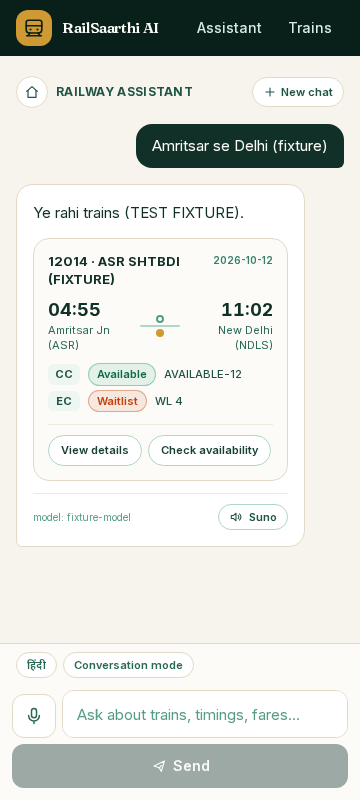
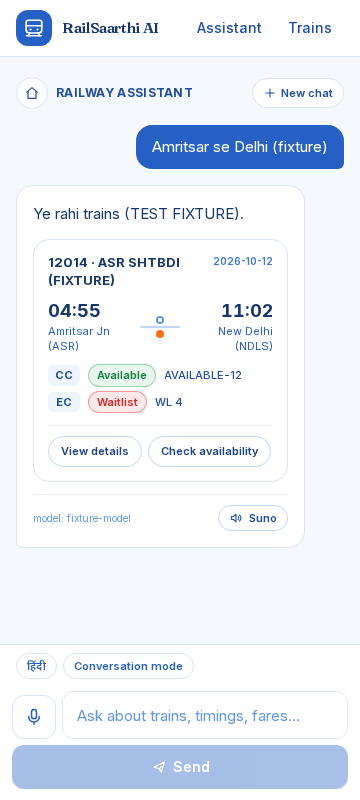
Light railway theme: blue + orange identity, no dark backgrounds
Per owner direction: no green/black/navy backgrounds, light & friendly,
must read as a railway AI assistant app.

- tokens: railway blue ramp (links/primary buttons/text), cool paper whites,
  railway orange accent (CTA/highlights); semantic green/amber/red for status
- light header (white, blue brand chip), light hero gradient (blue tint) with
  serif headline + orange italic, orange 'Start Chatting', blue route line +
  orange train, white feature cards with blue icon chips
- chat: bright blue user bubbles + blue send; everything else stays light
- fix react-hooks lint (matchMedia init via lazy useState)
- gates: tsc/lint PASS, vitest 192/192, build OK, Playwright 46/46 on a clean
  credential-cleared server (leftover dev server had polluted one run).
  no push/deploy

diff --git a/src/app/page.tsx b/src/app/page.tsx
@@ -46,10 +46,10 @@ function RouteGraphic() {
       <circle cx="308" cy="40" r="4" fill="var(--color-saffron-500)" stroke="none" />
       <g transform="translate(146 8)">
         <rect x="0" y="0" width="28" height="14" rx="4" fill="var(--color-saffron-500)" stroke="none" />
-        <rect x="4" y="3" width="6" height="5" rx="1" fill="var(--color-navy-950)" stroke="none" />
-        <rect x="13" y="3" width="6" height="5" rx="1" fill="var(--color-navy-950)" stroke="none" />
-        <circle cx="7" cy="14" r="2.2" fill="var(--color-cream-50)" stroke="none" />
-        <circle cx="21" cy="14" r="2.2" fill="var(--color-cream-50)" stroke="none" />
+        <rect x="4" y="3" width="6" height="5" rx="1" fill="#ffffff" stroke="none" />
+        <rect x="13" y="3" width="6" height="5" rx="1" fill="#ffffff" stroke="none" />
+        <circle cx="7" cy="14" r="2.2" fill="var(--color-navy-600)" stroke="none" />
+        <circle cx="21" cy="14" r="2.2" fill="var(--color-navy-600)" stroke="none" />
       </g>
     </svg>
   );
@@ -59,31 +59,31 @@ export default function HomePage() {
   return (
     <div>
       {/* Hero */}
-      <section className="relative overflow-hidden bg-navy-950 px-4 pt-12 pb-12 text-center sm:pt-16 sm:pb-14">
+      <section className="relative overflow-hidden bg-gradient-to-b from-navy-100 via-cream-100 to-cream-100 px-4 pt-12 pb-12 text-center sm:pt-16 sm:pb-14">
         <div
           aria-hidden
-          className="pointer-events-none absolute inset-0 bg-[radial-gradient(52rem_24rem_at_50%_-6rem,rgb(207_154_51/0.16),transparent_70%)]"
+          className="pointer-events-none absolute inset-0 bg-[radial-gradient(52rem_24rem_at_50%_-6rem,rgb(38_96_196/0.14),transparent_70%)]"
         />
         <div
           aria-hidden
-          className="pointer-events-none absolute inset-x-0 bottom-0 h-px bg-gradient-to-r from-transparent via-saffron-500/50 to-transparent"
+          className="pointer-events-none absolute inset-x-0 bottom-0 h-px bg-gradient-to-r from-transparent via-navy-300/70 to-transparent"
         />
         <div className="relative mx-auto max-w-2xl">
-          <p className="mx-auto inline-flex items-center gap-2 rounded-full border border-saffron-500/30 bg-navy-900/80 px-3.5 py-1 text-[11px] font-semibold tracking-wide text-saffron-400">
-            <BrandMark className="h-3.5 w-3.5" />
+          <p className="mx-auto inline-flex items-center gap-2 rounded-full border border-navy-200 bg-white px-3.5 py-1 text-[11px] font-semibold tracking-wide text-navy-700 shadow-sm">
+            <BrandMark className="h-3.5 w-3.5 text-saffron-500" />
             Indian Railways · AI assistant
           </p>
-          <h1 className="font-display mt-5 text-[40px] leading-[1.08] font-semibold tracking-tight text-cream-50 sm:text-6xl">
-            Your Journey, <span className="text-saffron-400 italic">Simplified.</span>
+          <h1 className="font-display mt-5 text-[40px] leading-[1.08] font-semibold tracking-tight text-navy-900 sm:text-6xl">
+            Your Journey, <span className="text-saffron-500 italic">Simplified.</span>
           </h1>
-          <p className="mx-auto mt-4 max-w-md text-[15px] leading-relaxed text-navy-200 sm:text-base">
+          <p className="mx-auto mt-4 max-w-md text-[15px] leading-relaxed text-navy-600 sm:text-base">
             Ask anything about Indian Railways in Hindi, Hinglish or English —
             trains, timings, fares, seat availability, routes and PNR status.
           </p>
           <Link
             href="/chat"
             data-testid="start-chatting"
-            className="surface-shadow mt-8 inline-flex min-h-12 items-center justify-center rounded-full bg-saffron-500 px-9 text-[15px] font-bold text-navy-950 transition hover:bg-saffron-400"
+            className="surface-shadow mt-8 inline-flex min-h-12 items-center justify-center rounded-full bg-saffron-500 px-9 text-[15px] font-bold text-white transition hover:bg-saffron-600"
           >
             Start Chatting
           </Link>
@@ -102,7 +102,7 @@ export default function HomePage() {
               key={f.title}
               className="surface-shadow rounded-2xl border border-cream-300 bg-white p-3.5 transition hover:-translate-y-0.5 sm:p-4"
             >
-              <span className="flex h-9 w-9 items-center justify-center rounded-xl border border-saffron-500/25 bg-saffron-500/10 text-saffron-600">
+              <span className="flex h-9 w-9 items-center justify-center rounded-xl border border-navy-200 bg-navy-50 text-navy-600">
                 <f.icon className="h-4.5 w-4.5" />
               </span>
               <p className="mt-2.5 text-[13px] font-bold text-navy-900">{f.title}</p>
@@ -118,7 +118,7 @@ export default function HomePage() {
         <ol className="relative mt-6 grid gap-3 sm:grid-cols-3">
           <span
             aria-hidden
-            className="absolute top-4 right-[16%] left-[16%] hidden h-px bg-gradient-to-r from-saffron-500/0 via-saffron-500/40 to-saffron-500/0 sm:block"
+            className="absolute top-4 right-[16%] left-[16%] hidden h-px bg-gradient-to-r from-navy-200/0 via-navy-300 to-navy-200/0 sm:block"
           />
           {[
             { t: "Ask a question", d: "Apni bhasha mein likhein ya bolein — koi form nahi." },
@@ -126,7 +126,7 @@ export default function HomePage() {
             { t: "Explore the results", d: "Cards me timings, fare, availability — source ke saath." },
           ].map((st, i) => (
             <li key={st.t} className="relative rounded-2xl border border-cream-300 bg-cream-50 p-4">
-              <span className="font-display flex h-8 w-8 items-center justify-center rounded-full border border-saffron-500/40 bg-white text-sm font-semibold text-saffron-600">
+              <span className="font-display flex h-8 w-8 items-center justify-center rounded-full border border-navy-200 bg-white text-sm font-semibold text-navy-700 shadow-sm">
                 {i + 1}
               </span>
               <p className="mt-2.5 text-[13px] font-bold text-navy-900">{st.t}</p>

diff --git a/src/app/layout.tsx b/src/app/layout.tsx
@@ -37,7 +37,7 @@ export const metadata: Metadata = {
 export const viewport: Viewport = {
   width: "device-width",
   initialScale: 1,
-  themeColor: "#081f1a",
+  themeColor: "#f5f8fc",
   // Mobile keyboards resize the visual viewport so the composer stays
   // reachable instead of being covered (keyboard-aware behaviour).
   interactiveWidget: "resizes-content",
@@ -58,11 +58,11 @@ export default function RootLayout({
         <Providers>
           <a
             href="#main"
-            className="sr-only focus:not-sr-only focus:absolute focus:z-50 focus:bg-navy-900 focus:px-4 focus:py-2 focus:text-cream-50"
+            className="sr-only focus:not-sr-only focus:absolute focus:z-50 focus:bg-navy-600 focus:px-4 focus:py-2 focus:text-white"
           >
             Skip to content
           </a>
-          <header className="sticky top-0 z-40 bg-navy-950">
+          <header className="sticky top-0 z-40 border-b border-cream-300 bg-white/90 backdrop-blur">
             <div className="mx-auto flex h-14 max-w-5xl items-center justify-between gap-2 px-4">
               <Link
                 href="/"
@@ -71,15 +71,15 @@ export default function RootLayout({
               >
                 <span
                   aria-hidden
-                  className="flex h-9 w-9 shrink-0 items-center justify-center rounded-xl bg-saffron-500 text-navy-950"
+                  className="flex h-9 w-9 shrink-0 items-center justify-center rounded-xl bg-navy-600 text-white"
                 >
                   <BrandMark className="h-5.5 w-5.5" />
                 </span>
                 <span className="min-w-0 leading-tight">
-                  <span className="font-display block truncate text-[15px] font-semibold tracking-tight text-cream-50">
+                  <span className="font-display block truncate text-[15px] font-semibold tracking-tight text-navy-900">
                     RailSaarthi AI
                   </span>
-                  <span className="hidden truncate text-[10px] font-medium text-navy-300 min-[400px]:block">
+                  <span className="hidden truncate text-[10px] font-medium text-navy-500 min-[400px]:block">
                     रेलसारथी · your AI railway assistant
                   </span>
                 </span>
@@ -89,7 +89,7 @@ export default function RootLayout({
                   <Link
                     key={item.href}
                     href={item.href}
-                    className={`rounded-full px-3 py-2 font-medium text-navy-100 transition hover:bg-navy-800 hover:text-cream-50 ${
+                    className={`rounded-full px-3 py-2 font-medium text-navy-700 transition hover:bg-navy-50 hover:text-navy-900 ${
                       item.mobile ? "" : "hidden sm:block"
                     }`}
                   >

diff --git a/src/app/globals.css b/src/app/globals.css
@@ -5,35 +5,35 @@
  * Tailwind v4 @theme generates utilities (bg-navy-900, text-cream-100, …).
  */
 @theme {
-  /* Deep heritage pine (old Indian Railways livery) — brand + primary actions */
-  --color-navy-50: #eef6f2;
-  --color-navy-100: #d7ebe2;
-  --color-navy-200: #b0d6c6;
-  --color-navy-300: #83bca6;
-  --color-navy-400: #559d84;
-  --color-navy-500: #35816a;
-  --color-navy-600: #276856;
-  --color-navy-700: #1f5346;
-  --color-navy-800: #174036;
-  --color-navy-900: #103028;
-  --color-navy-950: #081f1a;
+  /* Railway blue — brand, links, primary actions (light-first theme) */
+  --color-navy-50: #eef4fd;
+  --color-navy-100: #dde9fb;
+  --color-navy-200: #c0d6f7;
+  --color-navy-300: #93baf0;
+  --color-navy-400: #5f97e6;
+  --color-navy-500: #3a78da;
+  --color-navy-600: #2660c4;
+  --color-navy-700: #1e4da3;
+  --color-navy-800: #1b4187;
+  --color-navy-900: #17366d;
+  --color-navy-950: #122a54;
 
-  /* Warm ivory surfaces */
-  --color-cream-50: #fcfbf8;
-  --color-cream-100: #f7f4ed;
-  --color-cream-200: #efe9dc;
-  --color-cream-300: #e3dac6;
-  --color-cream-400: #d0c2a4;
+  /* Cool paper surfaces */
+  --color-cream-50: #ffffff;
+  --color-cream-100: #f5f8fc;
+  --color-cream-200: #e9f0f8;
+  --color-cream-300: #d9e5f1;
+  --color-cream-400: #bfd3e6;
 
-  /* Brushed gold — the single restrained accent */
-  --color-saffron-400: #dcaf4f;
-  --color-saffron-500: #cf9a33;
-  --color-saffron-600: #b07f22;
+  /* Railway orange — the single warm accent (CTAs, highlights) */
+  --color-saffron-400: #fb923c;
+  --color-saffron-500: #f97316;
+  --color-saffron-600: #ea580c;
 
   /* Semantic status colours (always paired with text labels) */
-  --color-signal-500: #149a63;
-  --color-signal-700: #0e6b45;
-  --color-alert-500: #c2410c;
+  --color-signal-500: #16a34a;
+  --color-signal-700: #15803d;
+  --color-alert-500: #dc2626;
 
   --font-sans:
     var(--font-inter), var(--font-devanagari), ui-sans-serif, system-ui,
@@ -65,8 +65,8 @@ body {
 }
 
 ::selection {
-  background: var(--color-navy-900);
-  color: var(--color-cream-50);
+  background: var(--color-navy-600);
+  color: #ffffff;
 }
 
 /* Accessibility: honour reduced-motion preferences (Prompt 8 §7). */

diff --git a/src/components/ChatClient.tsx b/src/components/ChatClient.tsx
@@ -129,10 +129,11 @@ export function ChatClient({ initialMessage }: { initialMessage?: string }) {
   const [confirmReset, setConfirmReset] = useState(false);
   const confirmTimerRef = useRef<ReturnType<typeof setTimeout> | null>(null);
   // Narrow Android screens get a shorter placeholder so it never wraps.
-  const [narrow, setNarrow] = useState(false);
+  const [narrow, setNarrow] = useState(
+    () => typeof window !== "undefined" && window.matchMedia("(max-width: 400px)").matches,
+  );
   useEffect(() => {
     const mq = window.matchMedia("(max-width: 400px)");
-    setNarrow(mq.matches);
     const onChange = (e: MediaQueryListEvent) => setNarrow(e.matches);
     mq.addEventListener("change", onChange);
     return () => mq.removeEventListener("change", onChange);
@@ -491,7 +492,7 @@ export function ChatClient({ initialMessage }: { initialMessage?: string }) {
                 {m.role === "user" ? (
                   <div
                     data-testid="chat-message-user"
-                    className="ml-auto w-fit rounded-2xl rounded-br-md bg-navy-900 px-4 py-2.5 text-[15px] leading-relaxed text-cream-50"
+                    className="ml-auto w-fit rounded-2xl rounded-br-md bg-navy-600 px-4 py-2.5 text-[15px] leading-relaxed text-white"
                   >
                     {m.text}
                   </div>
@@ -687,7 +688,7 @@ export function ChatClient({ initialMessage }: { initialMessage?: string }) {
               type="submit"
               disabled={busy || !input.trim()}
               aria-busy={busy}
-              className="flex h-11 w-full shrink-0 items-center justify-center gap-1.5 rounded-xl bg-navy-900 px-4 text-sm font-semibold text-cream-50 transition hover:bg-navy-800 disabled:opacity-40 sm:w-auto"
+              className="flex h-11 w-full shrink-0 items-center justify-center gap-1.5 rounded-xl bg-navy-600 px-4 text-sm font-semibold text-white transition hover:bg-navy-700 disabled:opacity-40 sm:w-auto"
             >
               <SendIcon className="h-4 w-4" />
               {busy ? "Sending…" : "Send"}

diff --git a/src/components/SearchForm.tsx b/src/components/SearchForm.tsx
@@ -96,7 +96,7 @@ export function SearchForm() {
           <div className="flex items-end">
             <button
               type="submit"
-              className="h-[42px] w-full rounded-xl bg-navy-900 px-4 text-sm font-semibold text-cream-50 transition hover:bg-navy-800"
+              className="h-[42px] w-full rounded-xl bg-navy-600 px-4 text-sm font-semibold text-white transition hover:bg-navy-700"
             >
               Search trains
             </button>
